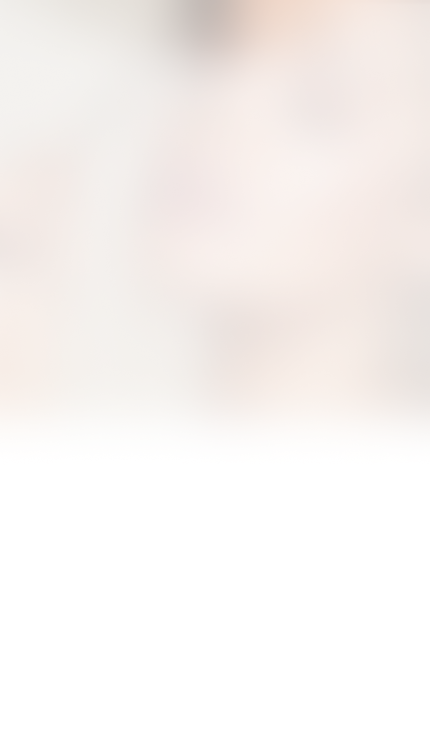
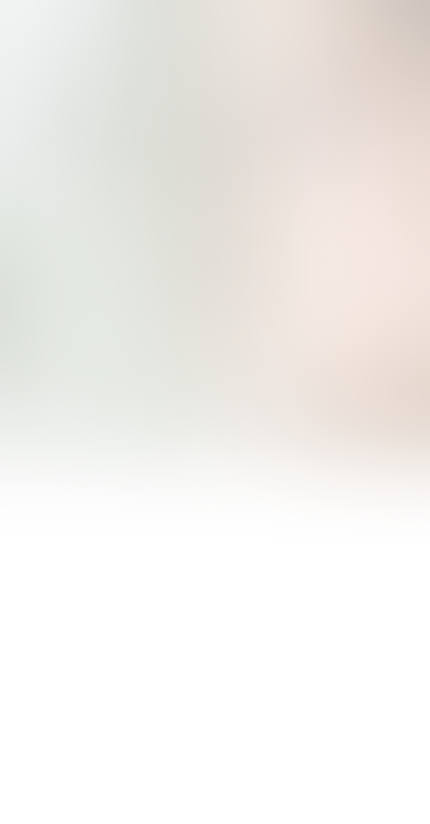
Commmit

Changed region(s): [[0.8163, 0.0, 1.0, 0.1523], [0.4233, 0.0, 0.6047, 0.0609], [0.0, 0.3656, 0.0605, 0.457]]

diff --git a/index.html b/index.html
@@ -29,12 +29,17 @@
     <div class="background">
 
 
-        <!-- Imagens de fundo -->
+        <!-- Transições 
         <div class="background">
-            <div class="background-img ukiyo" data-u-scale="1.5" data-img="1.5" style="background-image: url('img/bg-mobile.jpg');"></div>
-            <div class="background-img ukiyo" data-u-scale="1.5" data-img="1.5" style="background-image: url('img/bg-mobile2.jpg');"></div>
-            <div class="background-img ukiyo" data-u-scale="1.5" data-img="1.5" style="background-image: url('img/bg-mobile3.jpg');"></div>
+            <div class="background-img ukiyo" data-u-scale="1.4" data-u-speed="1.2" style="background-image: url('img/bg-mobile.jpg');"></div>
+            <div class="background-img ukiyo" data-u-scale="1.4" data-u-speed="1.2" style="background-image: url('img/bg-mobile2.jpg');"></div>
+            <div class="background-img ukiyo" data-u-scale="1.4" data-u-speed="1.2" style="background-image: url('img/bg-mobile3.jpg');"></div>
         </div> 
+        -->
+
+        <div class="background-img ukiyo" data-u-scale="2" data-u-speed="1.2"
+            style="background-image: url('img/bg-fixo.jpg');"></div>
+
 
         <div class="logo-photo">
             <img src="img/vanilla-beauty.svg">
@@ -61,11 +66,9 @@
                     Agendamento Online
                 </button>
             </a>
-            <a href="#">
-                <button class="btn-vnle" data-aos="fade-up" data-aos-delay="200">
-                    Serviços
-                </button>
-            </a>
+            <button class="btn-vnle disable" data-aos="fade-up" data-aos-delay="200">
+                Catálogo de Serviços <span class="badge text-bg-secondary">Em breve</span>
+            </button>
             <a href="#">
                 <button class="btn-vnle btn-whts" data-aos="fade-up" data-aos-delay="300">
                     <img src="img/whatsapp.svg">Atendimento WhatsApp
@@ -93,7 +96,7 @@
     <div class="footer text-center">
         <!-- Social Links-->
         <ul>
-            <li><a href=""><img src="img/instagram.svg"></a></li>
+            <li><a href="https://www.instagram.com/vanillabeauty____/"><img src="img/instagram.svg"></a></li>
         </ul>
 
         <!-- Disclaimer -->

diff --git a/css/style.css b/css/style.css
@@ -19,10 +19,6 @@ body {
     position: relative;
 }
 
-.background img {
-    max-width: 150%;
-}
-
 .background .background-img {
     position: absolute;
     top: 0;
@@ -32,7 +28,6 @@ body {
     background-size: cover;
     opacity: 0;
     transition: opacity 1s ease-in-out;
-    background-position-y: center;
   }
   
   .background .background-img.active {
@@ -195,4 +190,29 @@ a:hover {
 
 a {
     transition: all 0.5s ease-in-out;
+}
+
+.btn-vnle .badge {
+    font-weight: normal;
+    text-transform: uppercase;
+    margin-left: 8px;
+    position: absolute;
+    left: -16px;
+    background: #0000005e !important;
+    padding: 8px 11px;
+    backdrop-filter: blur(2px);
+    top: 0;
+    bottom: 0;
+    margin-top: auto;
+    margin-bottom: auto;
+    height: fit-content;
+}
+
+.disable {
+    background-color: #c5aa966e !important;
+}
+
+.disable:hover {
+    filter: unset !important;
+    cursor: unset;
 }

diff --git a/js/script.js b/js/script.js
@@ -13,7 +13,7 @@ $(document).ready(function() {
     var index = 0;
   
     // Define o tempo de transição e o intervalo de tempo para trocar as imagens
-    var time = 10 * 1000; // 5 segundos
+    var time = 10000; // 5 segundos
   
     // Ativa a primeira imagem
     $(images[index]).addClass("active");
